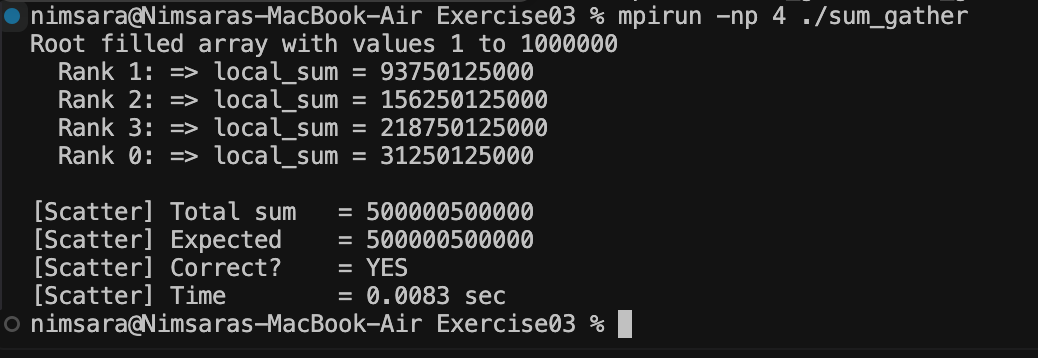
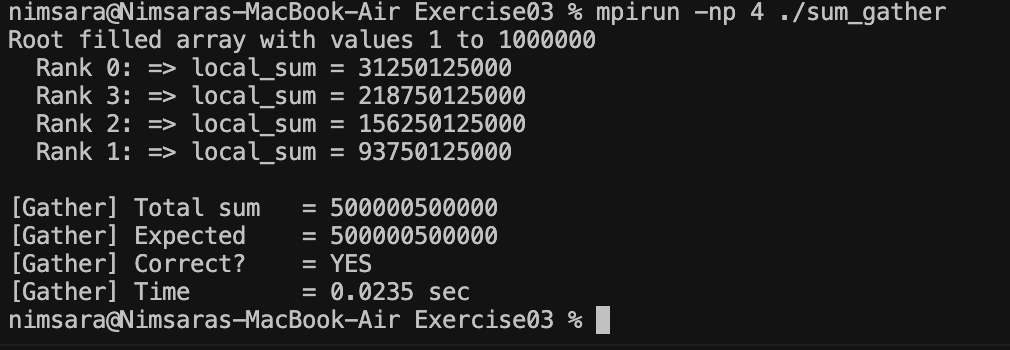
feat: add Exercise 04 and improve Exercise 03 cleanup
Introduces Exercise 04 using MPI_Reduce for summation and fixes a memory leak in Exercise 03 by freeing recv_array.

Changed region(s): [[0.0, 0.0, 0.9515, 0.4857], [0.0, 0.5429, 0.6139, 0.9714]]

diff --git a/Exercise04/sum_reduce.c b/Exercise04/sum_reduce.c
@@ -12,11 +12,10 @@ int main(int argc, char **argv) {
     MPI_Comm_size(MPI_COMM_WORLD, &size);
 
     int *array = NULL;
-    long long *recv_array = NULL;
+    long long total_sum = 0;
 
     if (rank == 0) {
         array = (int *)malloc(N * sizeof(int));
-        recv_array = (long long*)malloc(size * sizeof(long long));
 
         for (int i = 0; i < N; i++)
             array[i] = i + 1;
@@ -35,25 +34,20 @@ int main(int argc, char **argv) {
     for (int i = 0; i < chunk_size; i++) {
         local_sum += local_chunk[i];
     }
-        
 
     printf("  Rank %d: => local_sum = %lld\n", rank, local_sum);
 
-    MPI_Gather(&local_sum, 1, MPI_LONG_LONG, recv_array, 1, MPI_LONG_LONG, 0, MPI_COMM_WORLD);
+    MPI_Reduce(&local_sum, &total_sum, 1, MPI_LONG_LONG, MPI_SUM, 0, MPI_COMM_WORLD);
 
     if (rank == 0) {
-        long long total_sum = 0;        
-        for (int r = 0; r < size; r++) {
-            total_sum += recv_array[r];
-        }
         double elapsed = MPI_Wtime() - start;
         long long expected = (long long)N * (N + 1) / 2;
-        printf("\n[Gather] Total sum   = %lld\n", total_sum);
-        printf("[Gather] Expected    = %lld\n", expected);
-        printf("[Gather] Correct?    = %s\n", total_sum == expected ? "YES" : "NO");
-        printf("[Gather] Time        = %.4f sec\n", elapsed);
+        printf("\n[Reduce] Total sum   = %lld\n", total_sum);
+        printf("[Reduce] Expected    = %lld\n", expected);
+        printf("[Reduce] Correct?    = %s\n", total_sum == expected ? "YES" : "NO");
+        printf("[Reduce] Time        = %.4f sec\n", elapsed);
     }
-    free(recv_array);
+
     free(array);
     MPI_Finalize();
     return 0;

diff --git a/Exercise03/README.md b/Exercise03/README.md
@@ -4,7 +4,7 @@
 
 This exercise improves the result collection method used in Exercise 02.
 
-`MPI_Scatter` is still used to divide the original array into equal chunks. However, instead of using individual `MPI_Send` and `MPI_Recv` operations to return each partial sum to the root process, `MPI_Gather` collects all local sums in a single collective operation.
+`MPI_Scatter` is still used to divide the original array into equal chunks. However, instead of using individual `MPI_Send` and `MPI_Recv` operations to return each partial sum to the root process, `MPI_Gather` collects all local sums using a single collective operation.
 
 ## Improvement from Exercise 02
 
@@ -34,7 +34,9 @@ recv_array[] on Rank 0
 Root calculates total_sum
 ```
 
-`MPI_Gather` collects one `local_sum` from every process, including Rank 0, and stores them in rank order on the root process.
+`MPI_Gather` collects one `local_sum` from every process, including Rank 0, and stores the values in rank order inside the receive array on the root process.
+
+The root then manually adds the gathered values to obtain the final sum.
 
 ## Compile and Run
 
@@ -47,28 +49,28 @@ mpirun -np 4 ./sum_gather
 
 ```text
 Root filled array with values 1 to 1000000
-  Rank 1: => local_sum = 93750125000
-  Rank 2: => local_sum = 156250125000
-  Rank 3: => local_sum = 218750125000
   Rank 0: => local_sum = 31250125000
+  Rank 3: => local_sum = 218750125000
+  Rank 2: => local_sum = 156250125000
+  Rank 1: => local_sum = 93750125000
 
 [Gather] Total sum   = 500000500000
 [Gather] Expected    = 500000500000
 [Gather] Correct?    = YES
-[Gather] Time        = 0.0083 sec
+[Gather] Time        = 0.0235 sec
 ```
 
 ## Result
 
 `MPI_Gather` successfully collected the partial sums from all 4 MPI processes into the root process.
 
-The root then manually added the gathered values to calculate the final sum.
-
-The calculated result matched the expected value:
+The gathered values were manually summed by Rank 0, producing:
 
 **500,000,500,000**
 
-The order in which individual ranks print their local sums may vary because the MPI processes execute in parallel.
+The calculated value matches the expected result, confirming that the implementation is correct.
+
+The displayed rank order may vary between executions because MPI processes run concurrently.
 
 ## Proof
 

diff --git a/Exercise04/README.md b/Exercise04/README.md
@@ -1,0 +1,77 @@
+# Exercise 04 — MPI Reduce
+
+## Objective
+
+This exercise improves the result calculation used in Exercise 03.
+
+`MPI_Scatter` is still used to divide the original array into equal chunks. However, instead of using `MPI_Gather` to collect every partial sum and manually adding them on the root process, `MPI_Reduce` combines the partial sums automatically using `MPI_SUM`.
+
+## Improvement from Exercise 03
+
+**Exercise 03**
+
+```text
+MPI_Scatter
+     ↓
+Each rank calculates local_sum
+     ↓
+MPI_Gather
+     ↓
+recv_array[] on Rank 0
+     ↓
+Manual summation
+     ↓
+total_sum
+```
+
+**Exercise 04**
+
+```text
+MPI_Scatter
+     ↓
+Each rank calculates local_sum
+     ↓
+MPI_Reduce + MPI_SUM
+     ↓
+total_sum on Rank 0
+```
+
+With `MPI_Reduce`, the root process no longer needs a separate receive array or a manual loop to calculate the final sum.
+
+## Compile and Run
+
+```bash
+mpicc -o sum_reduce sum_reduce.c
+mpirun -np 4 ./sum_reduce
+```
+
+## Output
+
+```text
+Root filled array with values 1 to 1000000
+  Rank 2: => local_sum = 156250125000
+  Rank 1: => local_sum = 93750125000
+  Rank 0: => local_sum = 31250125000
+  Rank 3: => local_sum = 218750125000
+
+[Reduce] Total sum   = 500000500000
+[Reduce] Expected    = 500000500000
+[Reduce] Correct?    = YES
+[Reduce] Time        = 0.0290 sec
+```
+
+## Result
+
+`MPI_Reduce` successfully combined the `local_sum` values from all 4 MPI processes using `MPI_SUM`.
+
+The final result was stored directly in `total_sum` on Rank 0, removing the need for `recv_array[]` and manual summation.
+
+The calculated result matched the expected value:
+
+**500,000,500,000**
+
+The rank output order may vary between executions because MPI processes run concurrently.
+
+## Proof
+
+![Exercise 04 Output](image.png)
